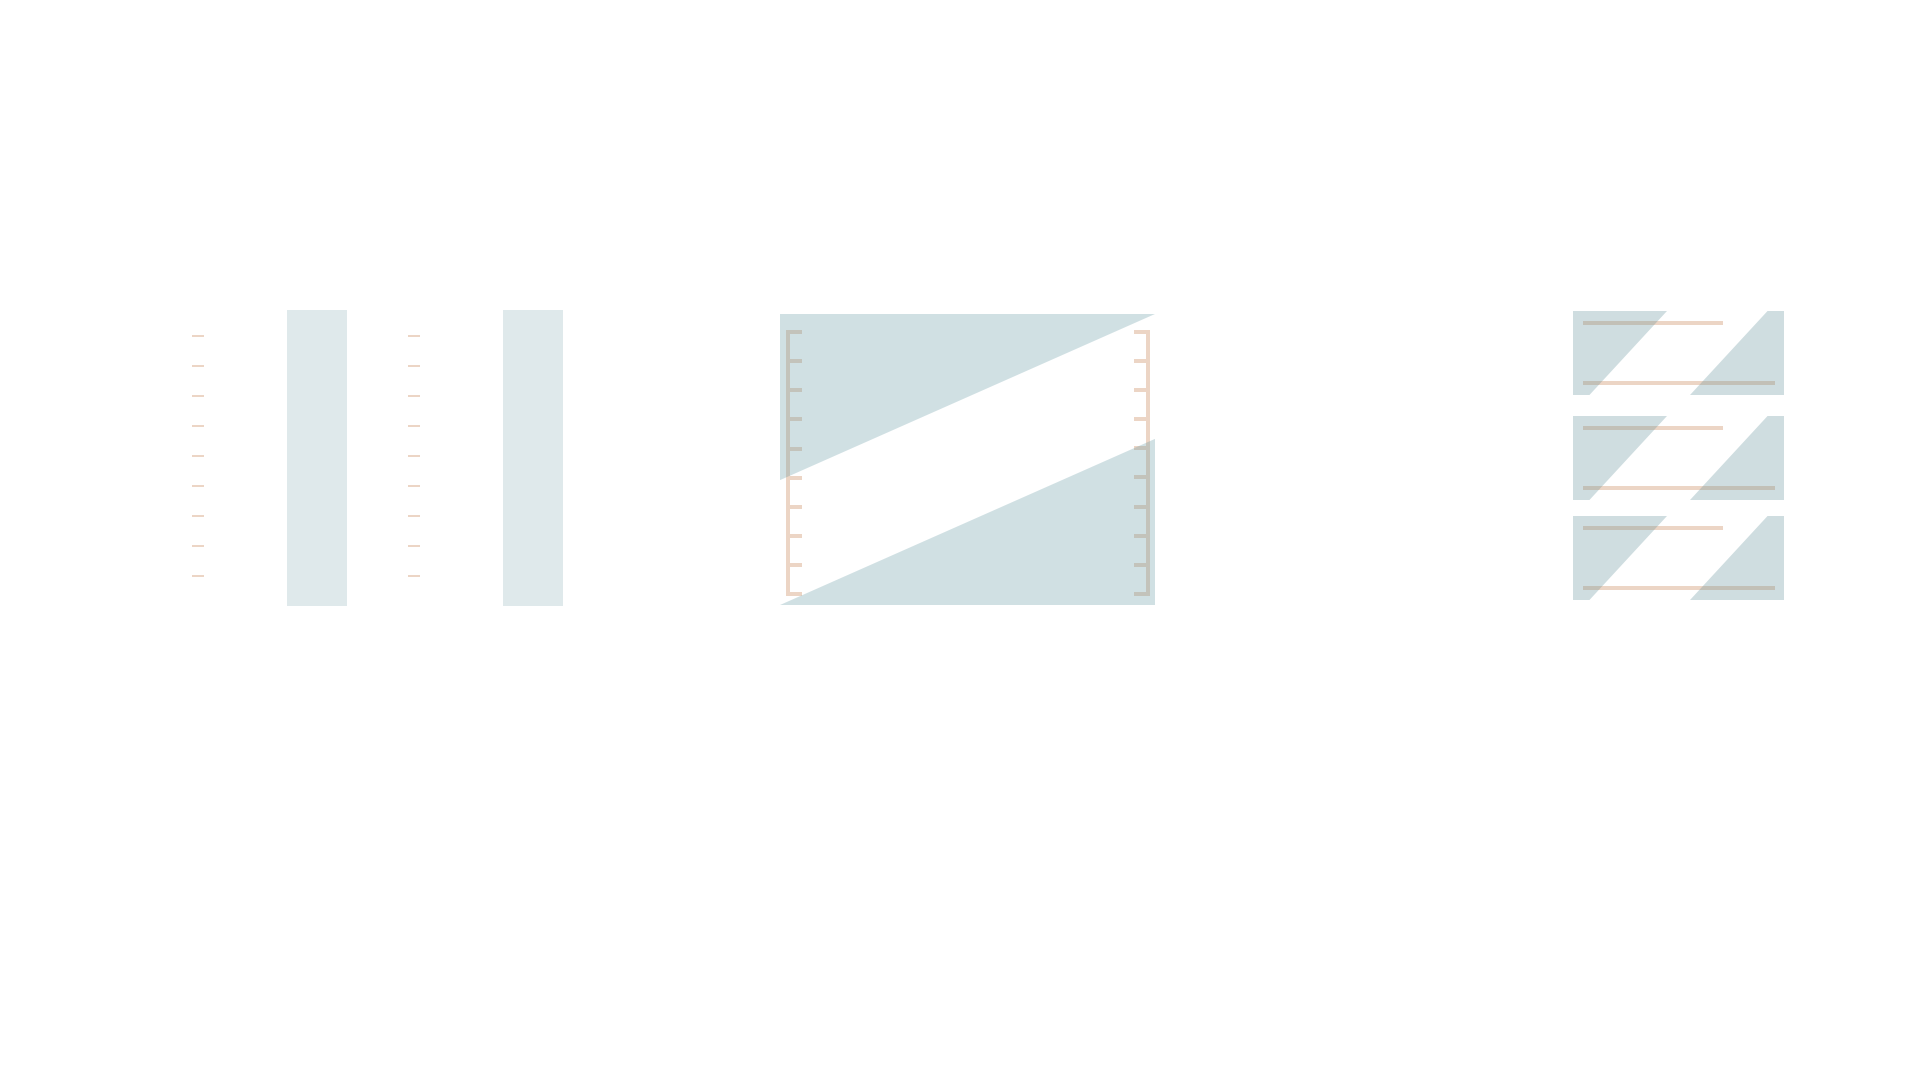
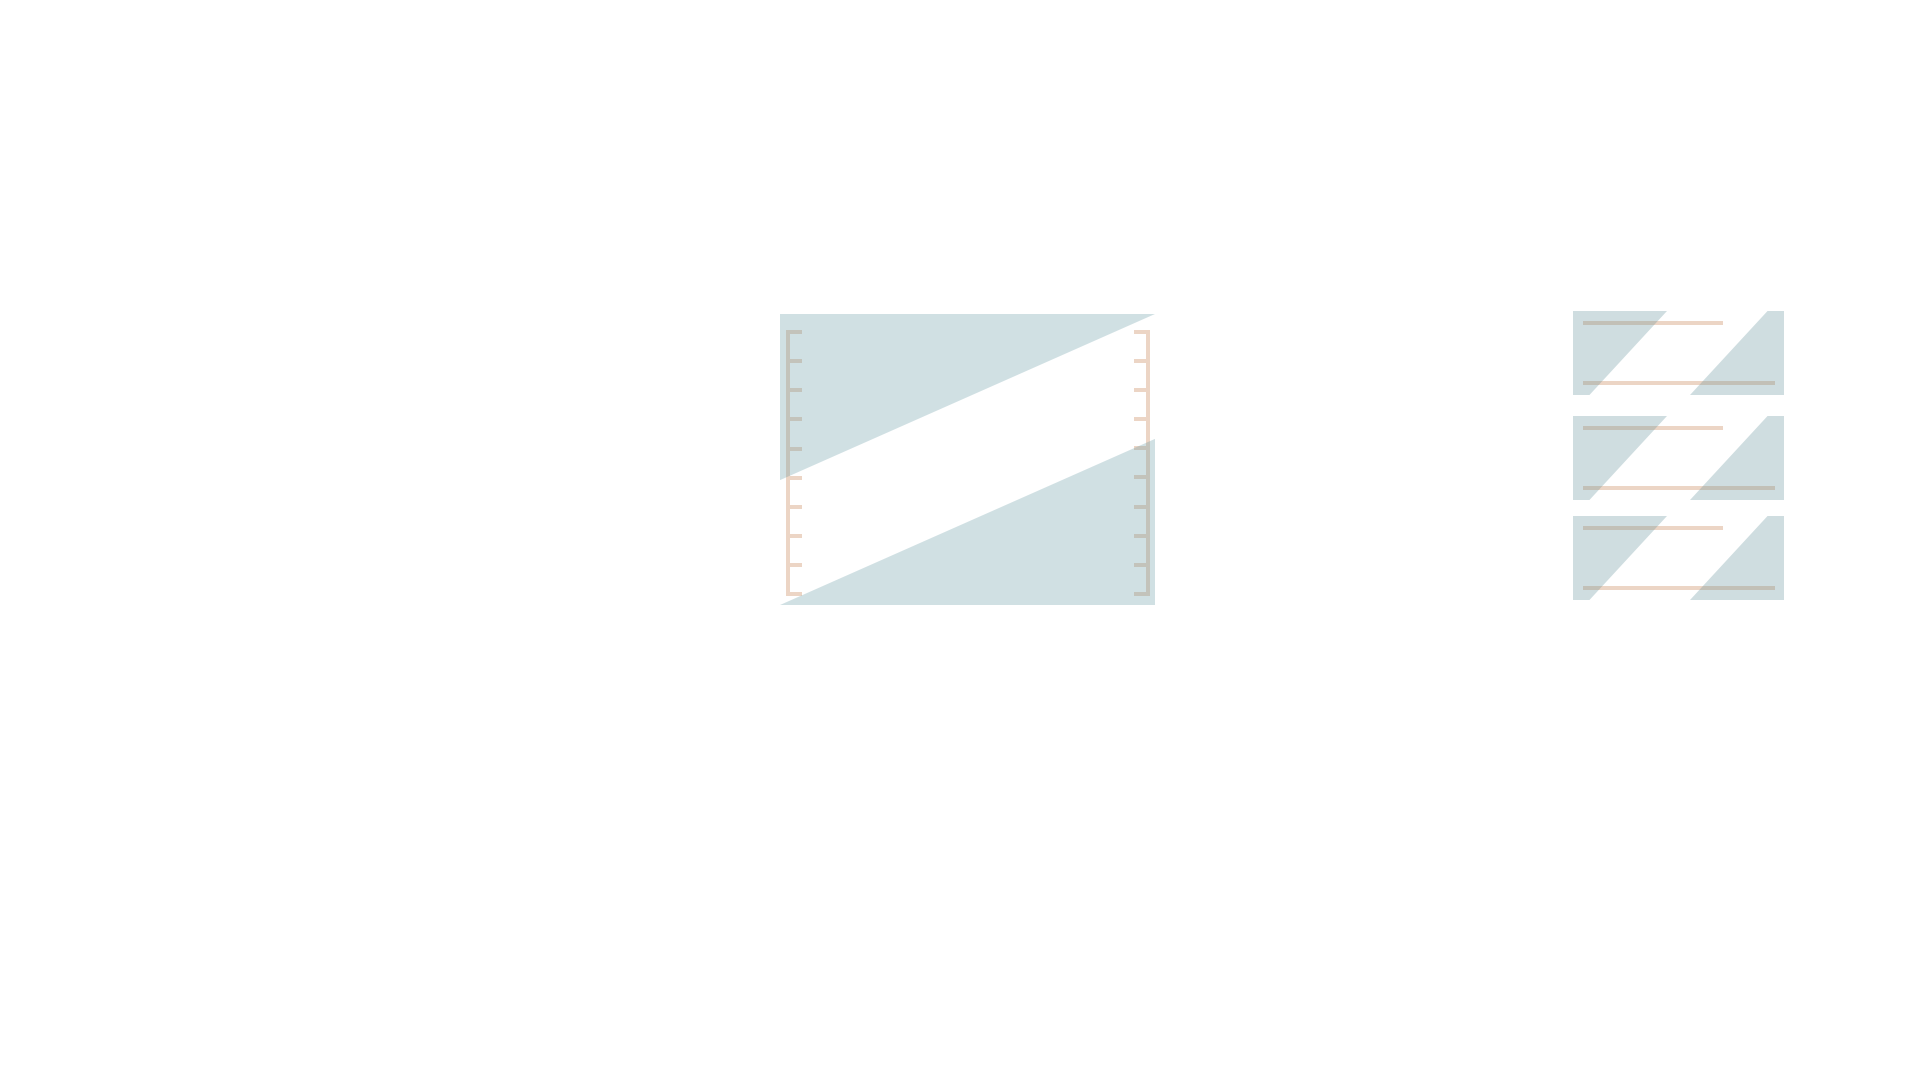
Testing setup (without race parameter) + weight conversion

Changed region(s): [[0.25, 0.275, 0.3125, 0.5806], [0.125, 0.275, 0.1875, 0.5806]]

diff --git a/src/example/RoskildeVolunteerLoungeVisualClient.java b/src/example/RoskildeVolunteerLoungeVisualClient.java
@@ -117,7 +117,7 @@ public class RoskildeVolunteerLoungeVisualClient extends BasicGame {
         System.out.println("Started SerialListener");
 
         try {
-            databaseHandler = new DatabaseHandler("D:/users/anders/documents");
+            databaseHandler = new DatabaseHandler("C:/Users/Thomas Macdonald/Documents");
         } catch (SQLException e) {
             e.printStackTrace();
         }
@@ -139,9 +139,10 @@ public class RoskildeVolunteerLoungeVisualClient extends BasicGame {
     private void updateWeight() {
 
         //GÅR JEG UD FRA AT VÆRDIERNE HEDDER? DER ER INGEN GRUND TIL AT DET ER PREVIOUS MERE, ET LEVN FRA RANDOM GENERATOR KODEN
-        prevCardBoardW = (float)databaseHandler.getCurrentWeight("Cardboard");
-        prevFlamW = (float)databaseHandler.getCurrentWeight("Flammable");
-        prevOrganW = (float)databaseHandler.getCurrentWeight("Organic");
+        prevCardBoardW = (float)((int)(databaseHandler.getTotalWeight("Cardboard")/10))/100;
+        prevFlamW = (float)((int)(databaseHandler.getTotalWeight("Flammable")/10))/100;
+        prevOrganW = (float)((int)(databaseHandler.getTotalWeight("Organic")/10))/100;
+
         /*
         prevCardBoardW = cardBoardW;
         prevFlamW = flamW;
@@ -353,7 +354,7 @@ public class RoskildeVolunteerLoungeVisualClient extends BasicGame {
 
     @Override
     public void render(GameContainer gc, Graphics g) throws SlickException {
-
+        
         //LAYER 0 : BACKGROUND
         /**
          * Completely mono coloured - Just to account for pixel mistakes
@@ -376,11 +377,11 @@ public class RoskildeVolunteerLoungeVisualClient extends BasicGame {
         //cardboardAnim.animation(g);
 
         //LAYER 4 : VISUAL COMPONENTS SUCH AS THE GRAPHS
-        displayRace(g);
+        //displayRace(g);
         displayPie(g);
-        font.drawString(1587,338,""+prevCardBoardW+" G.", Color.white);
-        font.drawString(1587,441,""+prevOrganW+" G.", Color.white);
-        font.drawString(1587,542,""+prevFlamW+" G.", Color.white);
+        font.drawString(1587,338,""+prevCardBoardW+" KG.", Color.white);
+        font.drawString(1587,441,""+prevOrganW+" KG.", Color.white);
+        font.drawString(1587,542,""+prevFlamW+" KG.", Color.white);
 
         //LAYER 5 : GRAPH OVERLAYS
         g.drawImage(toplayer, 0, 0);

diff --git a/src/example/SerialListener.java b/src/example/SerialListener.java
@@ -18,7 +18,7 @@ public class SerialListener implements SerialPortEventListener {
             "/dev/tty.usbserial-A9007UX1", // Mac OS X
             "/dev/ttyACM0", // Raspberry Pi
             "/dev/ttyUSB0", // Linux
-            "COM6", // Windows
+            "COM5", // Windows
     };
     /**
      * A BufferedReader which will be fed by a InputStreamReader

diff --git a/src/example/AudioPlayer.java b/src/example/AudioPlayer.java
@@ -1,7 +1,7 @@
 package example;
 
 public class AudioPlayer {
-	String audioFileLocation = "D:/Users/Anders/Downloads/sounds ready to import to java - version 1/";
+	String audioFileLocation = "C:/Users/Thomas Macdonald/Downloads/sound/";
 
 	
 	public void playSoundBio() {
